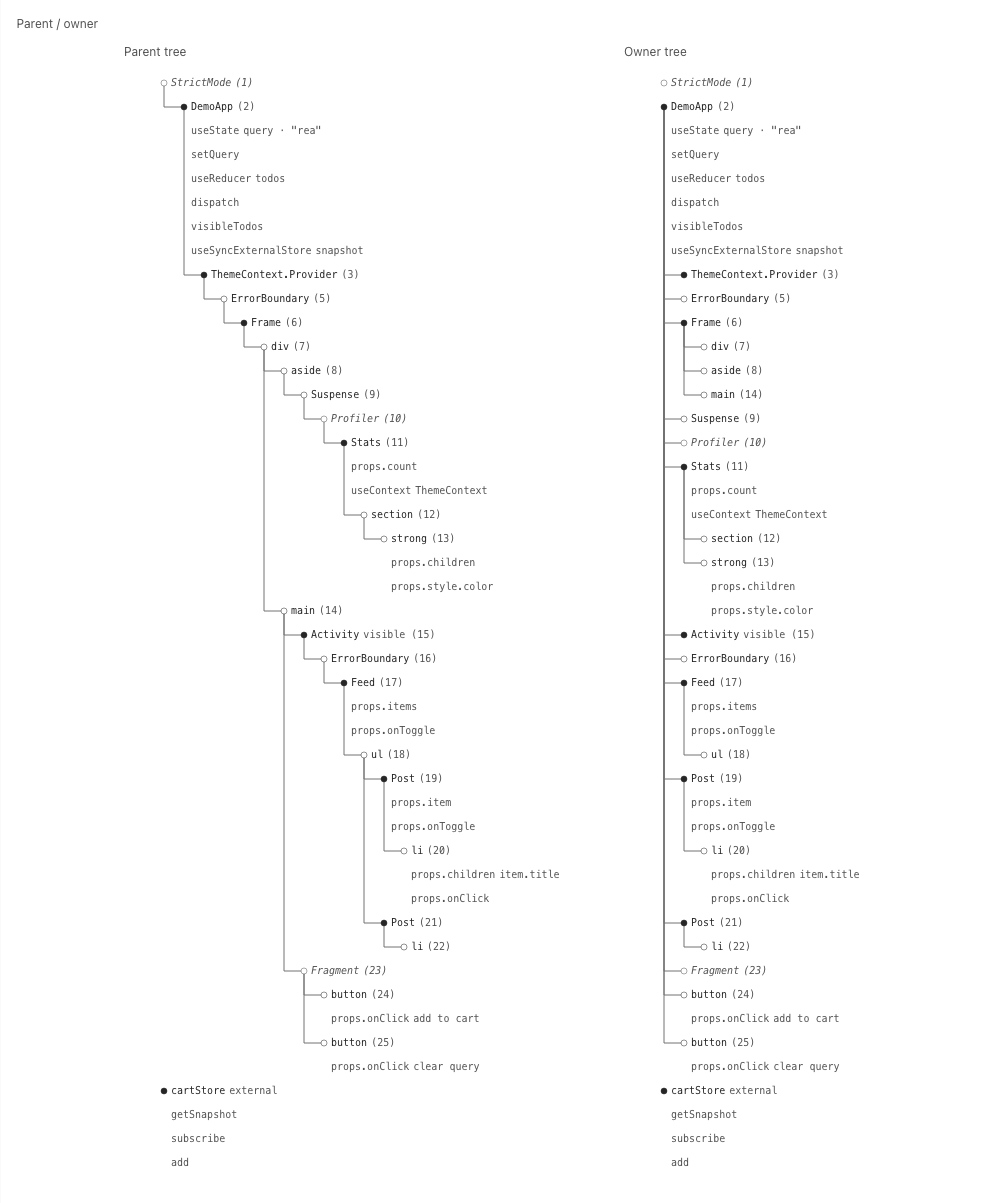
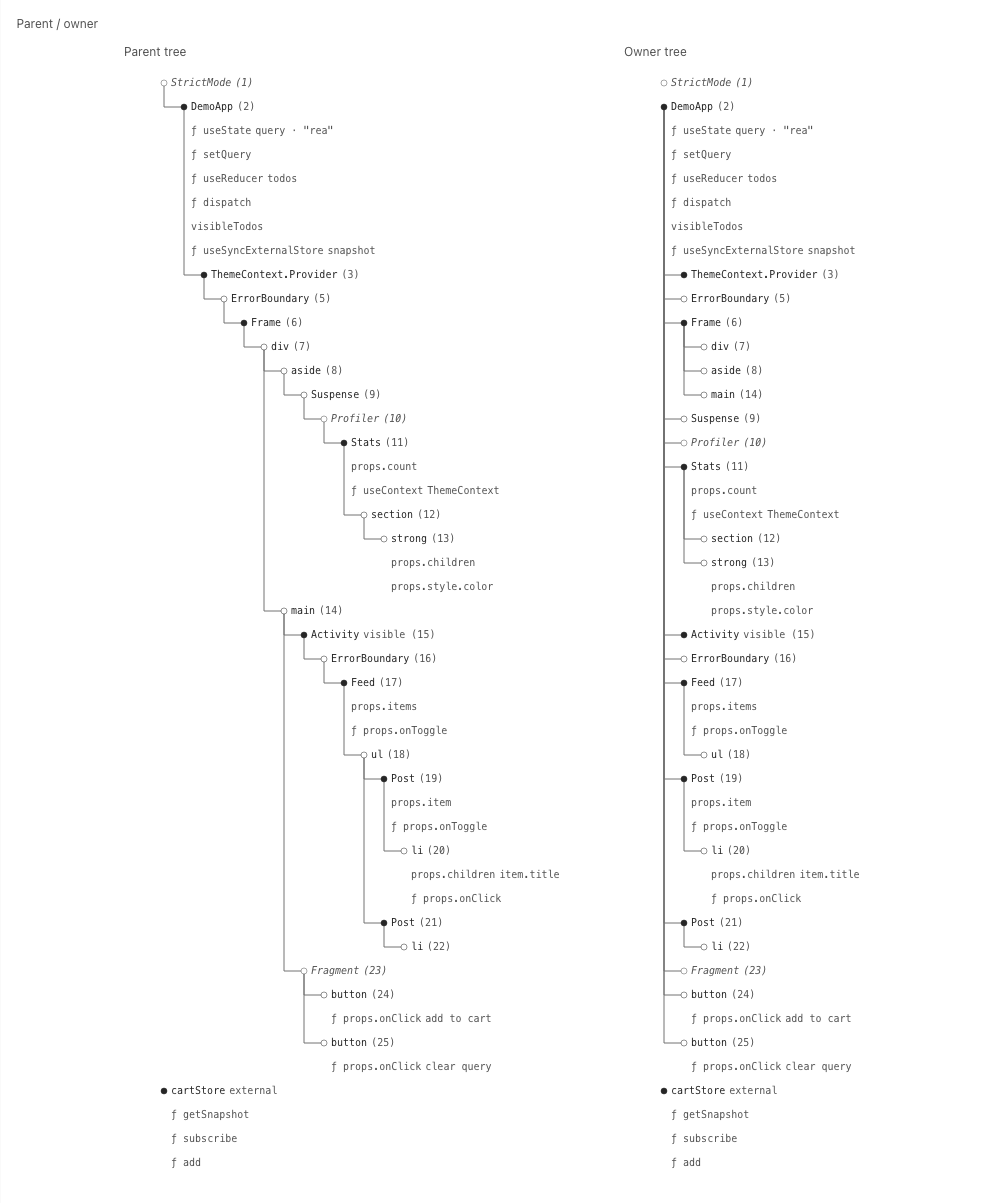
feat(diagram): mark callable labels with the function symbol

diff --git a/packages/diagram/src/diagram/primitives.tsx b/packages/diagram/src/diagram/primitives.tsx
@@ -11,6 +11,7 @@ import { getNodeDescription, getNodeName } from "./accessibility";
 import { composeEventHandlers, mergeClassNames } from "./dom-props";
 import { colors } from "./tokens.stylex";
 import { drawing } from "./drawing.stylex";
+import { getIsCallableNode } from "./node-kind";
 import type { TreeNode } from "./tree-model";
 import {
   DiagramInteractionContext,
@@ -183,6 +184,7 @@ export const DiagramNode = ({
     kind === "suspense" ||
     (kind === "boundary" && diagramInteraction?.activeId !== node.id);
   const isDetail = variant === "detail";
+  const isCallable = getIsCallableNode(node);
   const fontSize = diagramMetrics.fontSize;
   const labelOffset = isDetail ? 0 : diagramMetrics.labelOffset;
   const characterWidth = fontSize * 0.61;
@@ -190,7 +192,10 @@ export const DiagramNode = ({
   const characterCount =
     maxWidth === undefined
       ? characters.length
-      : Math.max(0, Math.floor((maxWidth - labelOffset - 4) / characterWidth));
+      : Math.max(
+          0,
+          Math.floor((maxWidth - labelOffset - 4) / characterWidth) - (isCallable ? 2 : 0),
+        );
   const label =
     characters.length > characterCount
       ? `${characters.slice(0, Math.max(0, characterCount - 1)).join("")}${characterCount > 0 ? "…" : ""}`
@@ -207,8 +212,8 @@ export const DiagramNode = ({
     isDisabled && styles.disabled,
   );
   const context = useMemo(
-    () => ({ labelId, descriptionId, label, annotation, labelOffset }),
-    [labelId, descriptionId, label, annotation, labelOffset],
+    () => ({ labelId, descriptionId, label, annotation, labelOffset, isCallable }),
+    [labelId, descriptionId, label, annotation, labelOffset, isCallable],
   );
   return (
     <NodeContext value={context}>
@@ -293,7 +298,7 @@ export const DiagramNode = ({
             24,
             Math.min(
               maxWidth === undefined ? Infinity : maxWidth + 6,
-              getLabelWidth({ label, annotation, fontSize, labelOffset }) + 12,
+              getLabelWidth({ label, annotation, fontSize, labelOffset, isCallable }) + 12,
             ),
           )}
           height={hitHeight}
@@ -330,7 +335,7 @@ export const DiagramNode = ({
           <path
             data-focus-ring
             aria-hidden="true"
-            d={`M ${labelOffset} ${fontSize / 2 + 3} h ${Math.max(24, getLabelWidth({ label, annotation, fontSize, labelOffset }) - labelOffset)}`}
+            d={`M ${labelOffset} ${fontSize / 2 + 3} h ${Math.max(24, getLabelWidth({ label, annotation, fontSize, labelOffset, isCallable }) - labelOffset)}`}
             {...stylex.props(styles.focusRing)}
           />
         )}

diff --git a/packages/diagram/src/board/tree-dataflow-fixture.ts b/packages/diagram/src/board/tree-dataflow-fixture.ts
@@ -39,9 +39,21 @@ export const treeDataflowPorts: TreeNode[] = [
   { id: "strong-content", label: "props.children", kind: "value", componentId: "strong" },
   { id: "strong-style", label: "props.style.color", kind: "value", componentId: "strong" },
   { id: "feed-items", label: "props.items", kind: "value", componentId: "feed" },
-  { id: "feed-toggle", label: "props.onToggle", kind: "value", componentId: "feed" },
+  {
+    id: "feed-toggle",
+    label: "props.onToggle",
+    kind: "value",
+    isCallable: true,
+    componentId: "feed",
+  },
   { id: "post-item", label: "props.item", kind: "value", componentId: "post-1" },
-  { id: "post-toggle", label: "props.onToggle", kind: "value", componentId: "post-1" },
+  {
+    id: "post-toggle",
+    label: "props.onToggle",
+    kind: "value",
+    isCallable: true,
+    componentId: "post-1",
+  },
   {
     id: "item-content",
     label: "props.children",
@@ -49,12 +61,19 @@ export const treeDataflowPorts: TreeNode[] = [
     kind: "value",
     componentId: "item-1",
   },
-  { id: "item-click", label: "props.onClick", kind: "value", componentId: "item-1" },
+  {
+    id: "item-click",
+    label: "props.onClick",
+    kind: "value",
+    isCallable: true,
+    componentId: "item-1",
+  },
   {
     id: "cart-click",
     label: "props.onClick",
     annotation: "add to cart",
     kind: "value",
+    isCallable: true,
     componentId: "button",
   },
   {
@@ -62,10 +81,23 @@ export const treeDataflowPorts: TreeNode[] = [
     label: "props.onClick",
     annotation: "clear query",
     kind: "value",
+    isCallable: true,
     componentId: "button-2",
   },
-  { id: "get-snapshot", label: "getSnapshot", kind: "store", componentId: "cart-store" },
-  { id: "subscribe", label: "subscribe", kind: "store", componentId: "cart-store" },
+  {
+    id: "get-snapshot",
+    label: "getSnapshot",
+    kind: "store",
+    isCallable: true,
+    componentId: "cart-store",
+  },
+  {
+    id: "subscribe",
+    label: "subscribe",
+    kind: "store",
+    isCallable: true,
+    componentId: "cart-store",
+  },
   { id: "store-add", label: "add", kind: "callback", componentId: "cart-store" },
 ];
 

diff --git a/packages/diagram/tests/function-symbol.spec.ts b/packages/diagram/tests/function-symbol.spec.ts
@@ -1,0 +1,38 @@
+import { expect, test } from "@playwright/test";
+
+test("uses the function symbol for callable details in both projections", async ({ page }) => {
+  await page.goto("/");
+  for (const nodeId of [
+    "query-state",
+    "set-query",
+    "dispatch",
+    "feed-toggle",
+    "post-toggle",
+    "item-click",
+    "get-snapshot",
+    "subscribe",
+    "store-add",
+  ]) {
+    const symbols = page.locator(
+      `[data-tree-relationship] [data-node-id="${nodeId}"] [data-function-symbol]`,
+    );
+    await expect(symbols).toHaveCount(2);
+    for (const symbol of await symbols.all()) {
+      await expect(symbol).toHaveText("ƒ");
+      await expect(symbol).toHaveAttribute("aria-hidden", "true");
+      await expect(symbol).toHaveCSS("font-size", "10px");
+    }
+  }
+  for (const nodeId of ["visible-todos", "stats-count", "feed-items", "cart-store", "app"]) {
+    await expect(
+      page.locator(`[data-tree-relationship] [data-node-id="${nodeId}"] [data-function-symbol]`),
+    ).toHaveCount(0);
+  }
+  const parent = page.getByRole("tree", { name: "Parent tree", exact: true });
+  const callback = parent.locator('[data-node-id="feed-toggle"]');
+  await expect(callback).toHaveAccessibleName("props.onToggle");
+  await expect(callback).toHaveAccessibleDescription(/value, function/);
+  await parent.locator('[data-node-id="app"]').focus();
+  await page.keyboard.press("s");
+  await expect(parent.locator('[data-node-id="set-query"]')).toBeFocused();
+});

diff --git a/packages/diagram/tests/node-kind.test.ts b/packages/diagram/tests/node-kind.test.ts
@@ -1,0 +1,20 @@
+import assert from "node:assert/strict";
+import { test } from "node:test";
+import { getIsCallableNode } from "../src/diagram/node-kind";
+import { diagramMetrics, getLabelWidth } from "../src/diagram/geometry";
+
+test("marks callable kinds and explicit function values without guessing from names", () => {
+  assert.equal(getIsCallableNode({ kind: "hook" }), true);
+  assert.equal(getIsCallableNode({ kind: "callback" }), true);
+  assert.equal(getIsCallableNode({ kind: "value" }), false);
+  assert.equal(getIsCallableNode({ kind: "component" }), false);
+  assert.equal(getIsCallableNode({ kind: "value", isCallable: true }), true);
+  assert.equal(getIsCallableNode({ kind: "store", isCallable: true }), true);
+  assert.equal(getIsCallableNode({ kind: "hook", isCallable: false }), false);
+});
+
+test("includes the function symbol in label, hitbox, and port measurements", () => {
+  const plainWidth = getLabelWidth({ label: "onClick" });
+  const functionWidth = getLabelWidth({ label: "onClick", isCallable: true });
+  assert.ok(Math.abs(functionWidth - plainWidth - 2 * diagramMetrics.fontSize * 0.61) < 0.001);
+});

diff --git a/packages/diagram/src/diagram/geometry.ts b/packages/diagram/src/diagram/geometry.ts
@@ -1,3 +1,6 @@
+import { getIsCallableNode } from "./node-kind";
+import type { TreeNode } from "./tree-model";
+
 export const diagramMetrics = {
   rowHeight: 24,
   indent: 20,
@@ -10,7 +13,7 @@ export const diagramMetrics = {
   arrowGap: 3,
 };
 
-interface DiagramLabel {
+interface DiagramLabel extends Pick<TreeNode, "kind" | "isCallable"> {
   label: string;
   annotation?: string;
   fontSize?: number;
@@ -20,10 +23,12 @@ interface DiagramLabel {
 export const getLabelWidth = ({
   label,
   annotation,
+  kind,
+  isCallable,
   fontSize = diagramMetrics.fontSize,
   labelOffset = diagramMetrics.labelOffset,
 }: DiagramLabel) =>
-  Array.from(label).length * fontSize * 0.61 +
+  (Array.from(label).length + (getIsCallableNode({ kind, isCallable }) ? 2 : 0)) * fontSize * 0.61 +
   labelOffset +
   (annotation ? Array.from(annotation).length * fontSize * 0.61 + 4 : 0);
 

diff --git a/packages/diagram/src/diagram/node-slots.tsx b/packages/diagram/src/diagram/node-slots.tsx
@@ -19,6 +19,7 @@ export const DiagramLabel = ({ children, ...props }: DiagramLabelProps) => {
           x: context.labelOffset,
           dy: "0.32em",
           "data-slot": "diagram-label",
+          "data-text-value": children === undefined ? context.label : undefined,
           ...stylex.props(drawing.label),
         },
         props,
@@ -26,6 +27,11 @@ export const DiagramLabel = ({ children, ...props }: DiagramLabelProps) => {
     >
       {children ?? (
         <>
+          {context.isCallable && (
+            <tspan data-function-symbol="" aria-hidden="true">
+              {"ƒ "}
+            </tspan>
+          )}
           {context.label}
           {context.annotation && (
             <tspan dx={4} {...stylex.props(drawing.annotation)}>

diff --git a/packages/diagram/src/diagram/accessibility.ts b/packages/diagram/src/diagram/accessibility.ts
@@ -1,4 +1,5 @@
 import type { TreeNode, TreeRow } from "./tree-model";
+import { getIsCallableNode } from "./node-kind";
 interface AccessibleEdge {
   from: string;
   to: string;
@@ -13,7 +14,7 @@ export const getNodeName = (node: TreeNode) =>
   `${node.label}${node.annotation ? `, ${node.annotation}` : ""}`;
 
 export const getNodeDescription = (node: TreeNode) =>
-  `${node.componentId ? "Component detail: " : ""}${node.kind ?? "component"}${node.isPortalTarget ? ", portal target" : ""}.`;
+  `${node.componentId ? "Component detail: " : ""}${node.kind ?? "component"}${getIsCallableNode(node) ? ", function" : ""}${node.isPortalTarget ? ", portal target" : ""}.`;
 
 export const getTreeDescriptions = (
   nodes: readonly TreeNode[],

diff --git a/packages/diagram/tests/accessibility.test.ts b/packages/diagram/tests/accessibility.test.ts
@@ -63,7 +63,7 @@ test("screen-reader descriptions explain metadata, ownership, and directed relat
   ]);
   assert.match(
     descriptions.get("detail") ?? "",
-    /Component detail: hook\. Details of Branch\. Outgoing renders: Leaf\./,
+    /Component detail: hook, function\. Details of Branch\. Outgoing renders: Leaf\./,
   );
   assert.match(descriptions.get("leaf") ?? "", /Incoming renders: Branch: useState\./);
   assert.match(descriptions.get("branch") ?? "", /Parent: Root\. Owner: Root\./);

diff --git a/packages/diagram/src/diagram/use-tree-navigation.ts b/packages/diagram/src/diagram/use-tree-navigation.ts
@@ -123,6 +123,7 @@ export const useTreeNavigation = ({
           ...row.node,
           label:
             elementById.get(row.node.id)?.dataset.textValue ??
+            elementById.get(row.node.id)?.querySelector("text")?.getAttribute("data-text-value") ??
             elementById.get(row.node.id)?.querySelector("text")?.textContent ??
             row.node.label,
         },

diff --git a/packages/diagram/src/diagram/node-kind.ts b/packages/diagram/src/diagram/node-kind.ts
@@ -1,0 +1,4 @@
+import type { TreeNode } from "./tree-model";
+
+export const getIsCallableNode = (node: Pick<TreeNode, "kind" | "isCallable">) =>
+  node.isCallable ?? (node.kind === "hook" || node.kind === "callback");

diff --git a/packages/diagram/src/diagram/node-context.ts b/packages/diagram/src/diagram/node-context.ts
@@ -7,6 +7,7 @@ export interface NodeContextValue {
   descriptionId: string;
   label: string;
   annotation?: string;
+  isCallable: boolean;
   labelOffset: number;
 }
 

diff --git a/packages/diagram/src/diagram/tree-model.ts b/packages/diagram/src/diagram/tree-model.ts
@@ -20,6 +20,7 @@ export interface TreeNode {
     | "callback"
     | "store";
   isPortalTarget?: boolean;
+  isCallable?: boolean;
   annotation?: string;
 }
 
